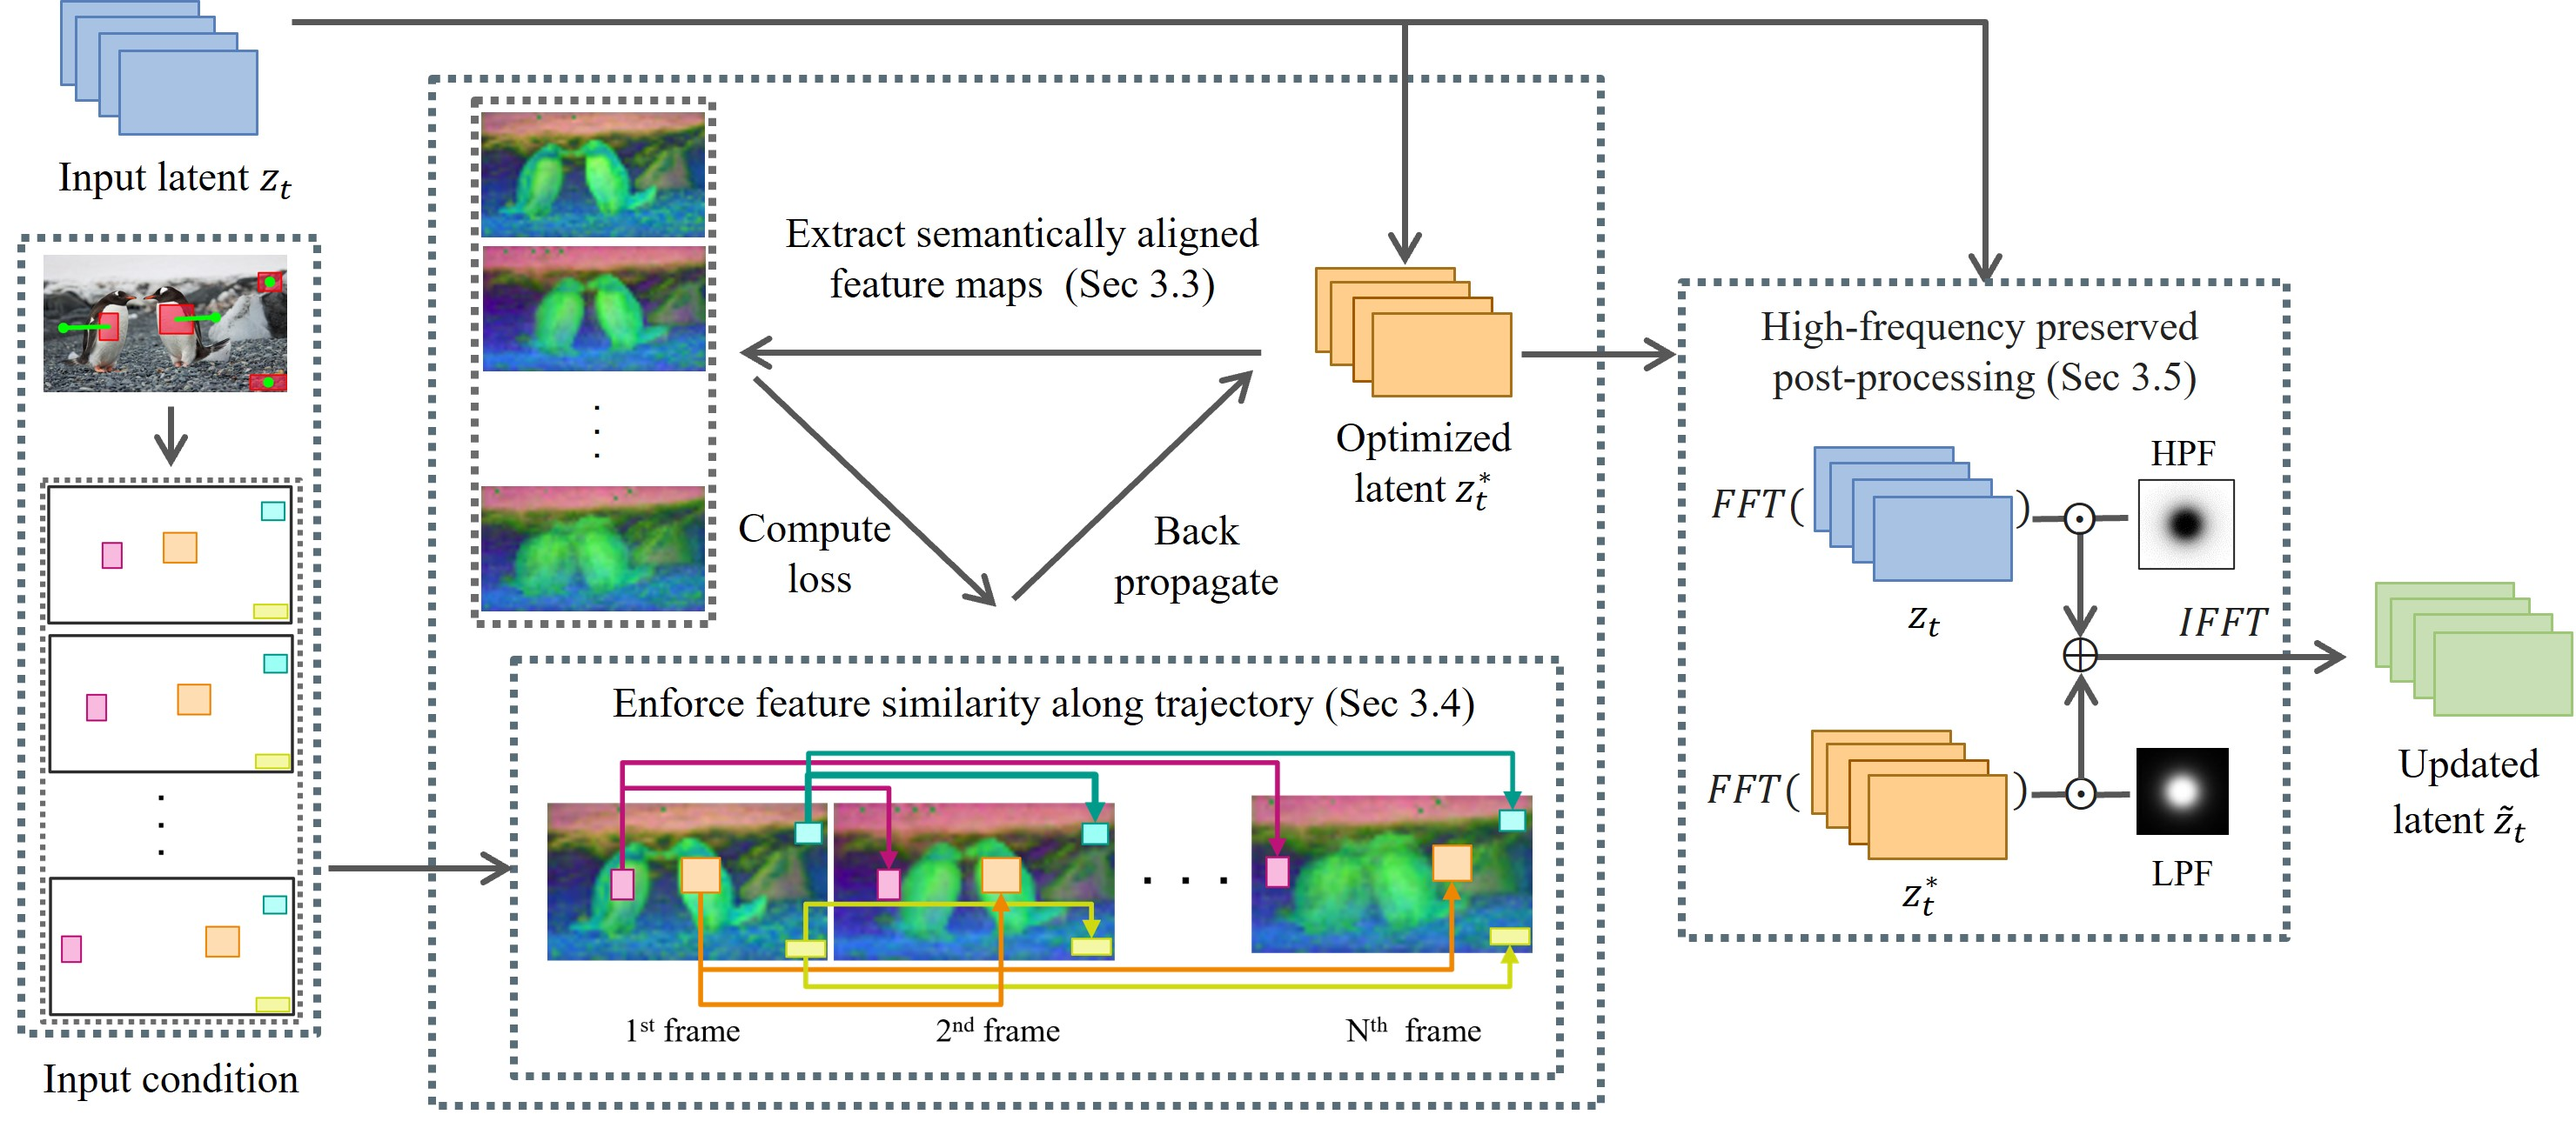
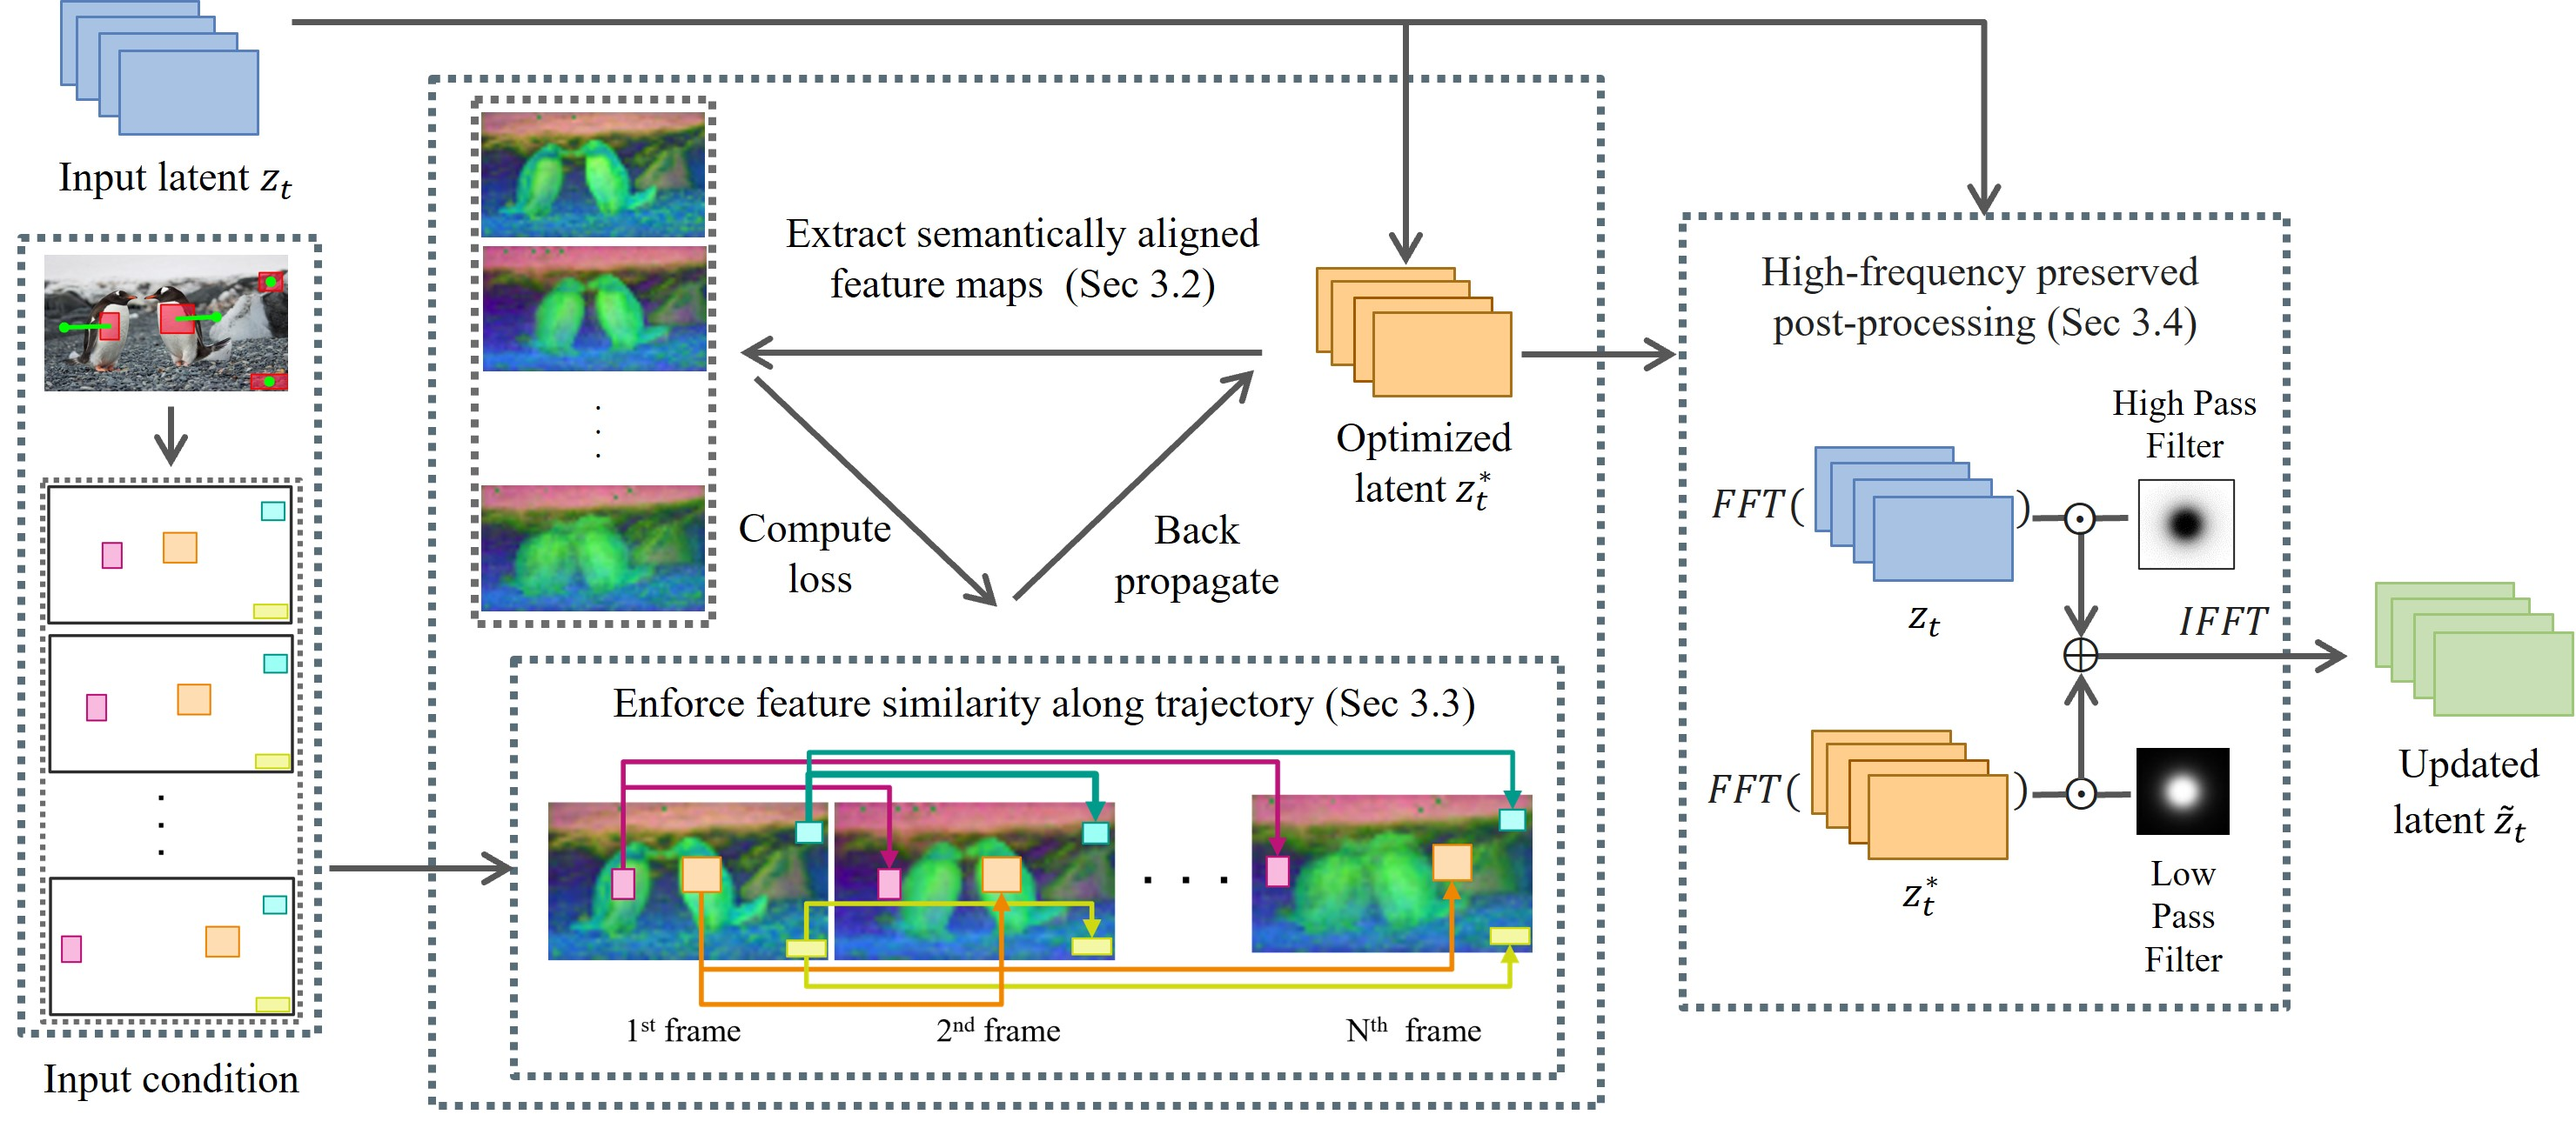
upd

diff --git a/index.html b/index.html
@@ -96,7 +96,7 @@
                     To control trajectories of scene elements during the denoising process, we optimize latent $z_t$ at specific timesteps $t$ as follows:<br>
                     <b>(1)</b> We extract semantically aligned feature maps from the denoising U-Net, where regions belonging to the same objects across frames have similar feature vectors.<br>
                     <b>(2)</b> We optimize the latent $z_t^*$ with a loss that encourages cross-frame feature similarity along the input trajectory.<br>
-                    <b>(3)</b> To keep the visual quality of the generated video, a frequency-based post-processing method is applied to retain high-frequency noise of the original latent $z_t$. The updated latent $\tilde{z}_t$ is input to the next denoising step.
+                    <b>(3)</b> To preserve the visual quality of the generated video, a frequency-based post-processing method is applied to retain high-frequency noise of the original latent $z_t$. The updated latent $\tilde{z}_t$ is input to the next denoising step.
                 </p>
                 <img src="overview.jpg" alt="architecture" style="width: 100%">
             </div>
@@ -280,7 +280,7 @@
         <div class="row captioned_videos">
             <div class="col-md-12">
                 <p>
-                    While our method is tuning-free (i.e. not finetuned on annotated data), it demonstrates competitive performance with supervised baselines in both visual and motion quality.
+                    While our method is tuning-free (i.e. not finetuned on annotated data), it demonstrates competitive performance with supervised baselines in visual and motion quality.
                 </p>
             </div>
         </div>
@@ -352,7 +352,7 @@
         </div>
             <div class="row">
                     <div class="col-sm-12">
-                        <h5 id="ablation-unet-featuremap"><b>PCA Visualization of diffusion features at timestep = 30/50 (Paper Fig. 2)</b></h5>
+                        <h5 id="ablation-unet-featuremap-PCA"><b>PCA Visualization of diffusion features at timestep = 30/50 (Paper Fig. 2)</b></h5>
                     </div>
             </div>
             <div class="row" style="margin-bottom: 0px;">
@@ -561,7 +561,7 @@
     <div class="container" style="max-width: 768px;">
         <div class="row">
             <div class="col-sm-12">
-                <h2 id="ablation-post-processing">Ablation Study:  Frequency Post-processing (Paper Fig. 7)</h2>
+                <h2 id="ablation-post-processing">Ablation Study: High-Frequency Preservation in Post-Processing (Paper Fig. 7)</h2>
             </div>
         </div>
         <div class="row captioned_videos">

diff --git a/gallery_FFT.html b/gallery_FFT.html
@@ -50,8 +50,7 @@
         </div>
         </div>
     </div>
-    <hr class="divider" />
-    
+    <hr class="divider" />    
 
     <div class="container" style="max-width: 768px;">
         <div class="row">
